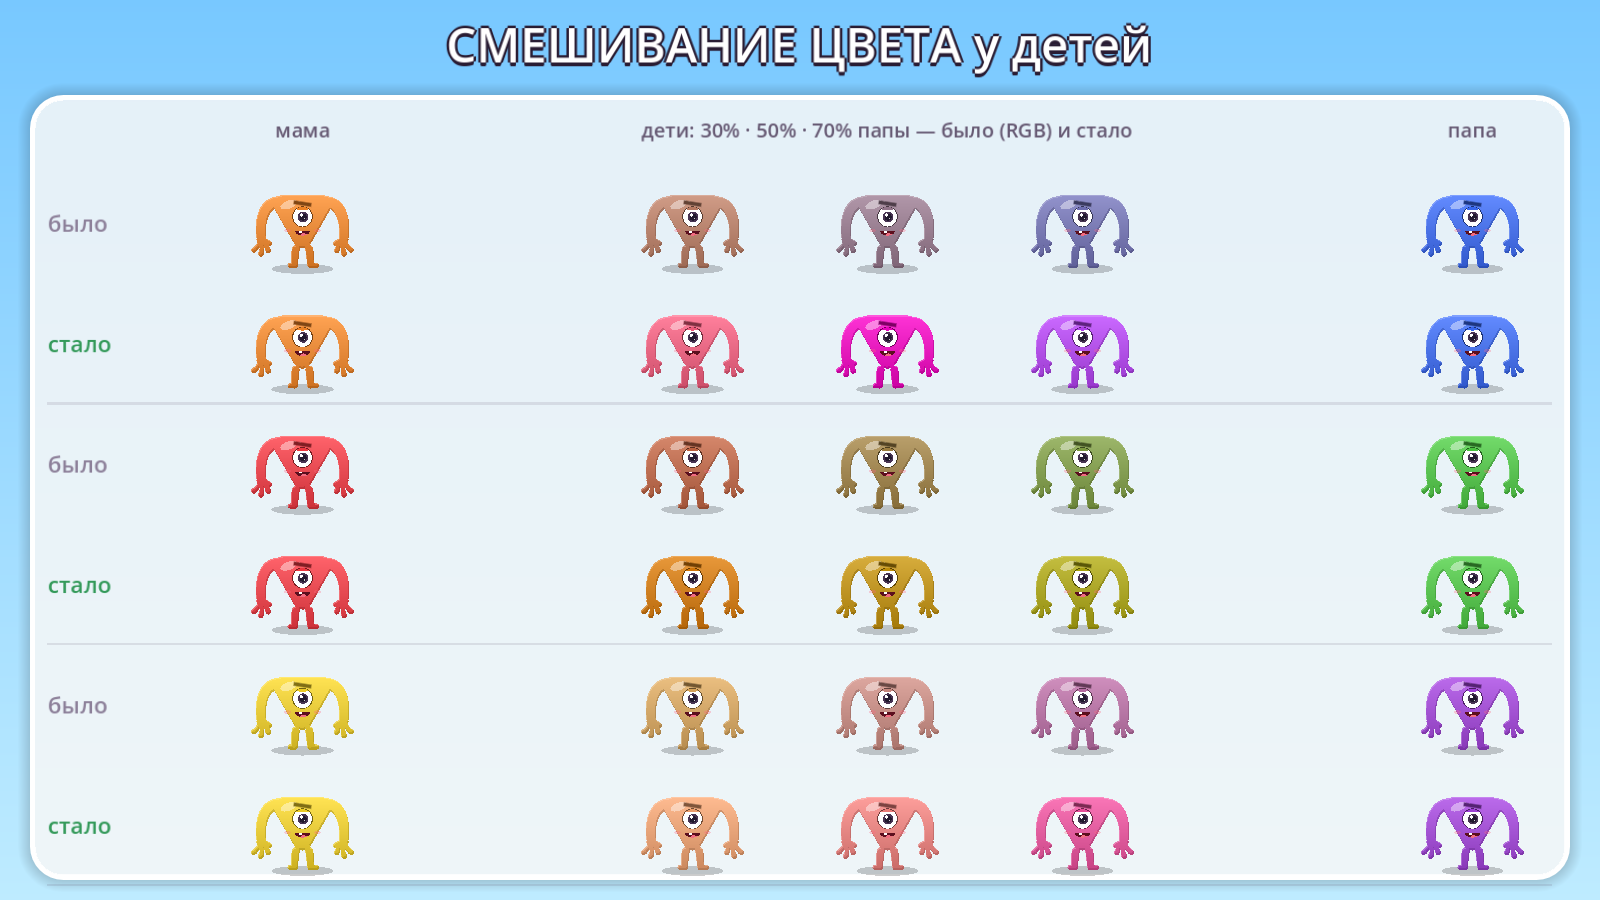
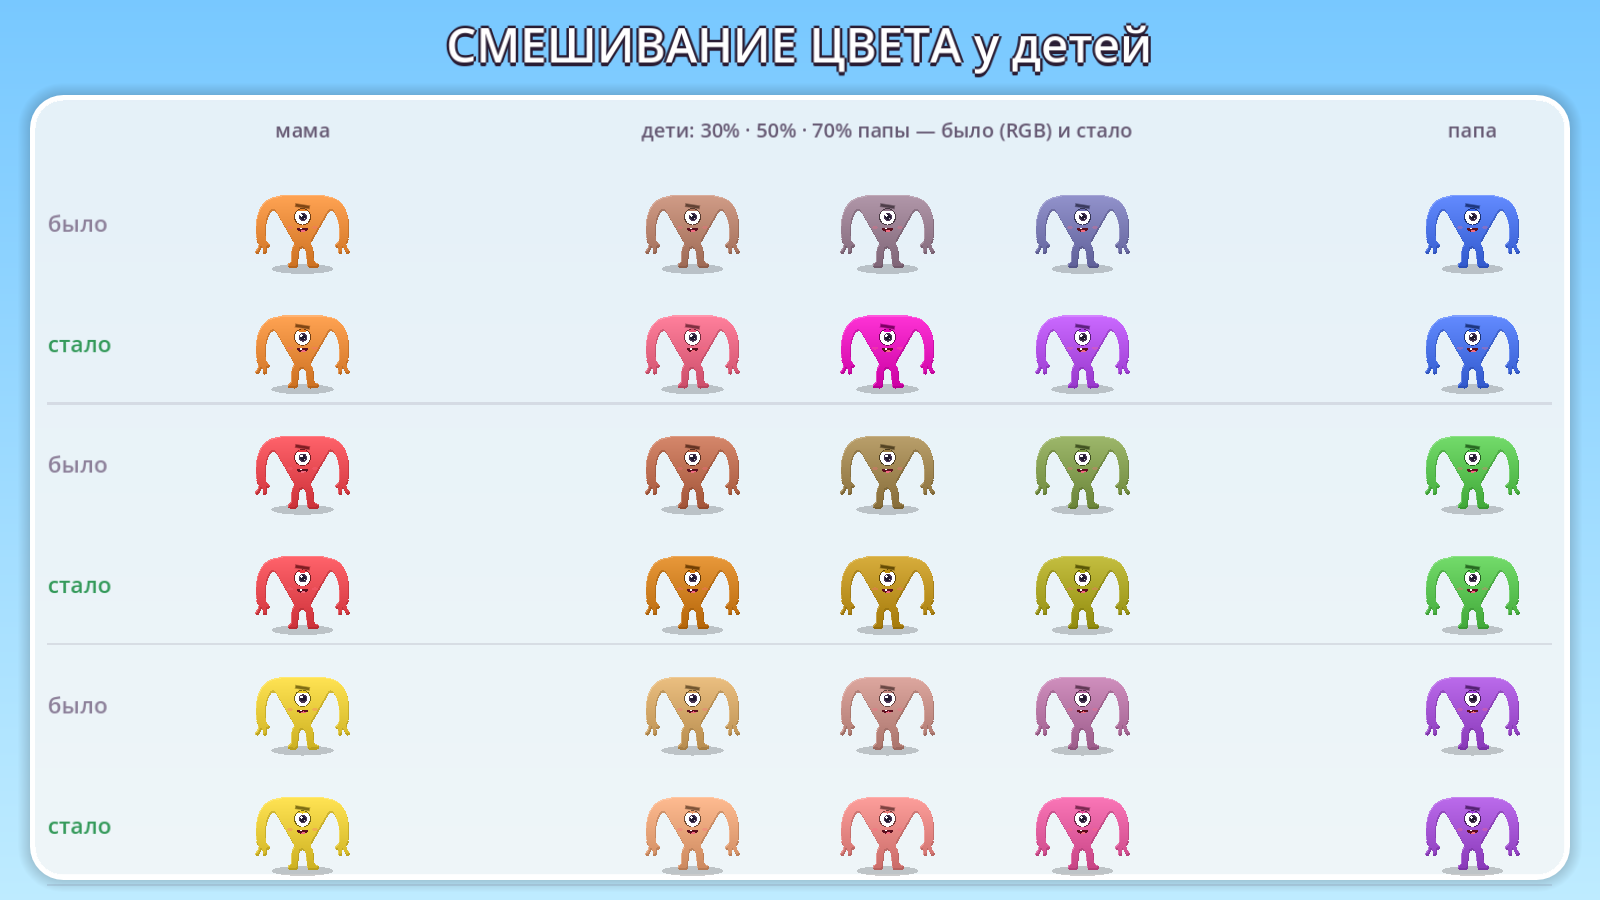
Житель: плавные стыки рук и ног, 4 пальца, лицо меньше, без белого блика
Силуэт сглаживается (раздуть и сжать) — подмышки и пах без порожков.
Вырожденные куски тени не рисуем — без ошибок триангуляции на мелких жителях.

Claude-Session: https://claude.ai/code/session_016LhimkttaYpRVNZ3oj9mAA

diff --git a/docs/GDD.md b/docs/GDD.md
@@ -173,7 +173,8 @@
 
 - Без головы: глаза и рот посреди туловища (лицо небольшое). Туловище широкое, три формы:
   перевёрнутый треугольник (широкий верх, острие внизу), квадрат, круг.
-- Руки идут от самого верха туловища, длинные; кисти с выразительными пухлыми пальцами.
+- Руки идут от самого верха туловища, длинные; стыки рук и ног с туловищем плавные, контур
+  одной линией. Обычно 4 пальца (три и большой), пальцы тонкие, растопыренные.
 - Цвет — любой RGB, при рождении смешивается в разных пропорциях (по кругу оттенков OKHSL,
   а не в RGB — дети остаются яркими), бывает в одного из родителей или в бабушку/дедушку
   (скрытая копия гена).
